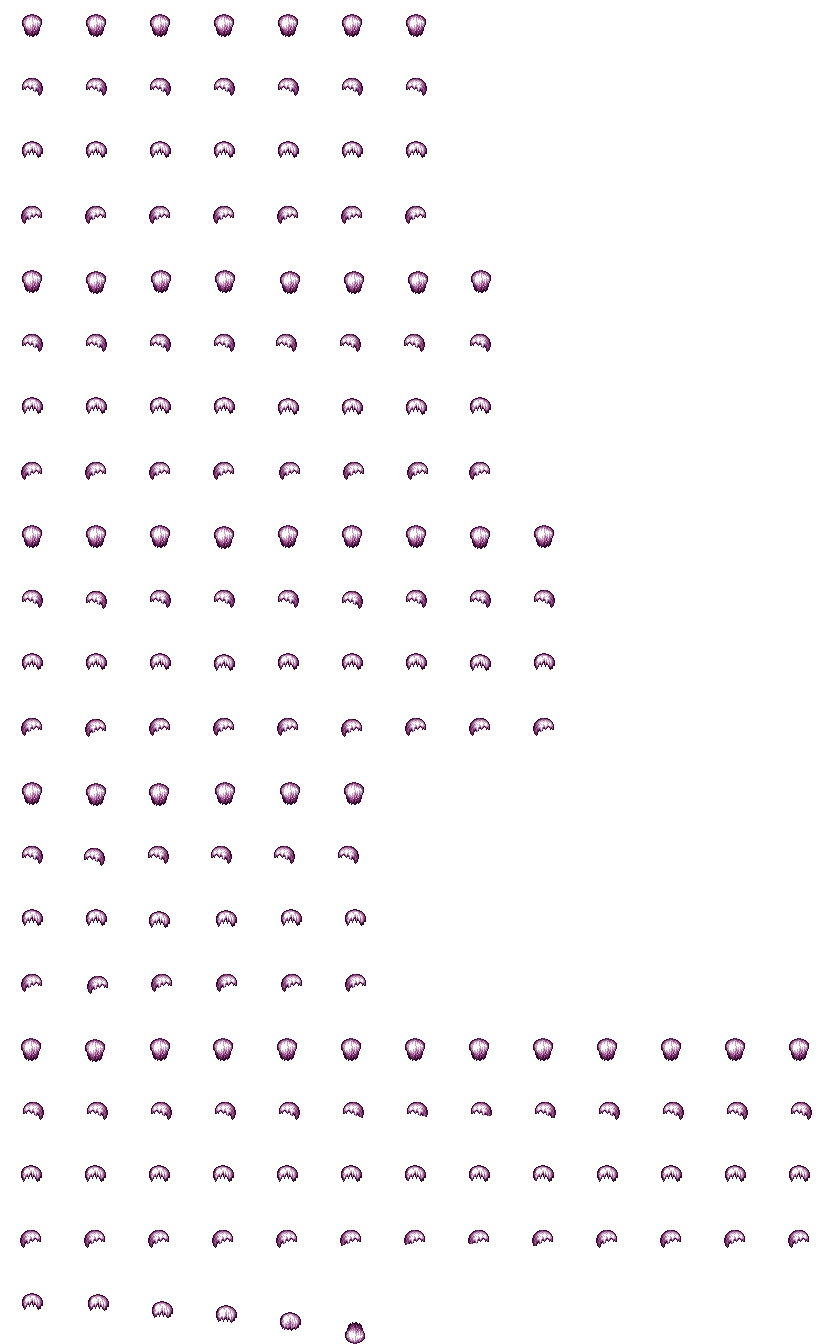
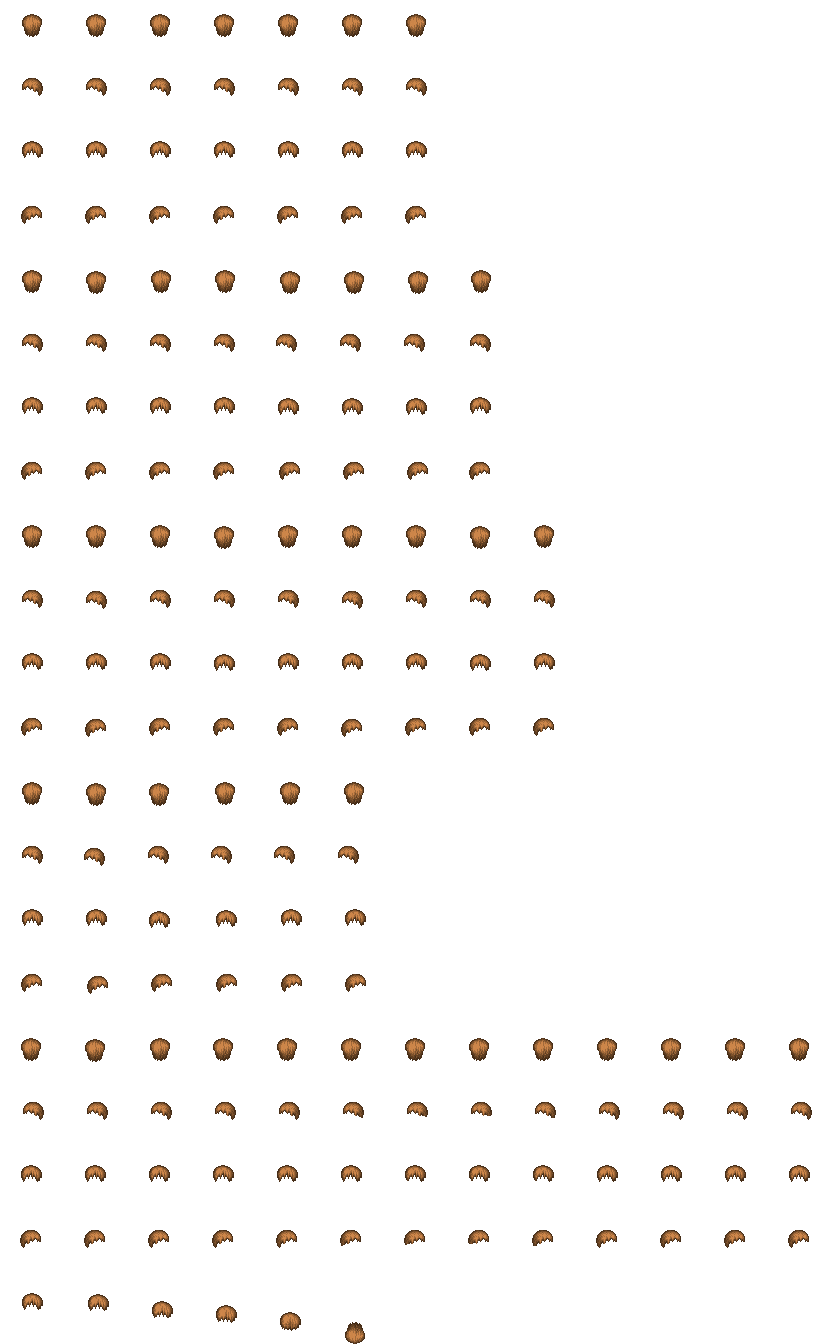
horta: MENINO de volta (LPC animado, roupa simples, cabelo castanho recolorido) no lugar da princesa

diff --git a/_anim/game.js b/_anim/game.js
@@ -10,7 +10,8 @@
 // número/medalha, sem zoom). Phaser CANVAS (leve p/ PC antigo).
 // ============================================================================
 const F = 64, HERO_SC = 1.0, WW = 1280, WH = 960, ZOOM = 1.6;
-const IDLE = { up: 0, left: 9, down: 18, right: 27 };
+// Menino LPC UNIVERSAL (13 col, 832x1344): andar linhas 8-11, col0=parado.
+const IDLE = { up: 104, left: 117, down: 130, right: 143 };
 const ALVO_PLOT = 6, META = 30;
 const PLOTS = [[640, 470], [330, 300], [1010, 300], [980, 760], [430, 810]];  // 5 x 6 = 30
 
@@ -121,10 +122,10 @@ class Mundo extends Phaser.Scene {
       this.bichos.push(b);
     });
 
-    this.anims.create({ key: 'up', frames: this.anims.generateFrameNumbers('hero', { start: 1, end: 8 }), frameRate: 10, repeat: -1 });
-    this.anims.create({ key: 'left', frames: this.anims.generateFrameNumbers('hero', { start: 10, end: 17 }), frameRate: 10, repeat: -1 });
-    this.anims.create({ key: 'down', frames: this.anims.generateFrameNumbers('hero', { start: 19, end: 26 }), frameRate: 10, repeat: -1 });
-    this.anims.create({ key: 'right', frames: this.anims.generateFrameNumbers('hero', { start: 28, end: 35 }), frameRate: 10, repeat: -1 });
+    this.anims.create({ key: 'up', frames: this.anims.generateFrameNumbers('hero', { start: 105, end: 112 }), frameRate: 10, repeat: -1 });
+    this.anims.create({ key: 'left', frames: this.anims.generateFrameNumbers('hero', { start: 118, end: 125 }), frameRate: 10, repeat: -1 });
+    this.anims.create({ key: 'down', frames: this.anims.generateFrameNumbers('hero', { start: 131, end: 138 }), frameRate: 10, repeat: -1 });
+    this.anims.create({ key: 'right', frames: this.anims.generateFrameNumbers('hero', { start: 144, end: 151 }), frameRate: 10, repeat: -1 });
 
     this.sombra = this.add.ellipse(640, 480, 30, 12, 0x000000, 0.22);
     this.hero = this.physics.add.sprite(640, 480, 'hero', IDLE.down).setScale(HERO_SC);